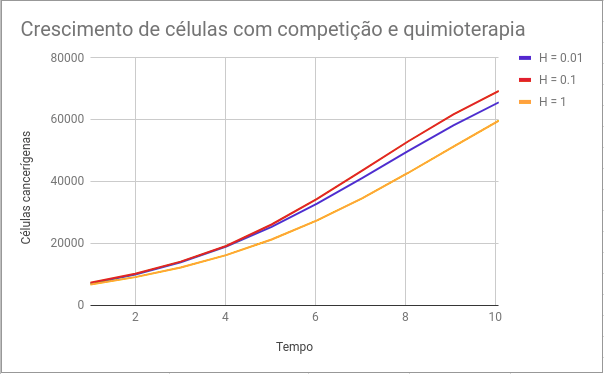
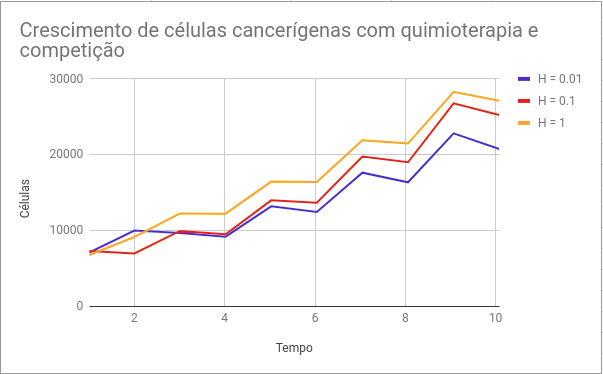
Concertado gráfico com quimioterapia e competição

diff --git a/Câncer/competitive_cancer.js b/Câncer/competitive_cancer.js
@@ -16,7 +16,7 @@
 	var r2 = 0.42;
 	var K1 = 5000;
 	var K2 = 50;
-	var h = 1;
+	var h = 0.1;
 	var prevY;
 	var negativeXIncrease = 0;
 	var negativeYIncrease = 0;
@@ -270,14 +270,14 @@
 		putText();
 		var increaseX = (h * competitiveGrowth(r1, x, y, K1, lambda1));
 		var increaseY = (h * competitiveGrowth(r2, y, x, K2, lambda2));
-		/*
+		
 		if (t > nDose * period) {
 			var normalKillCount = applyChemotherapy(normalAlpha, dose, true);
 			var cancerKillCount = applyChemotherapy(cancerAlpha, dose, false);
 			killCells(normalKillCount, true);
 			killCells(cancerKillCount, false);
 			nDose++;
-		}*/
+		}
 		if(increaseX < 0){
 			negativeXIncrease += increaseX;
 

diff --git a/Câncer/server.js b/Câncer/server.js
@@ -18,7 +18,7 @@ app.use(enableCors);
 
 app.post("/", (req, res) => {
 	//console.log(req.body);
-	fs.appendFileSync("chemo3.csv", json2csv({data: req.body, fields: fields, hasCSVColumnTitle: false}) + "\n");
+	fs.appendFileSync("chemo2.csv", json2csv({data: req.body, fields: fields, hasCSVColumnTitle: false}) + "\n");
 	res.status(200).send(true);
 });
 

diff --git a/Câncer/Paper/tumorgrowth.tex b/Câncer/Paper/tumorgrowth.tex
@@ -235,7 +235,7 @@ Crescimento de celulas cancerígenas sem competição e sem quimioterapia.
 
 \includegraphics{noChemoCompet}
 
-Testes adicionado quimioterapia e competição também foram realizados, trazendo resultados discrepantes na quantia de células em função do tempo. Os parâmetros utilizados foram os mesmos, diferindo apenas no \lambda1 = 0.003, \lambda2 = 0.00002, dose = 0.2 e período da dose = 2.
+Testes adicionado quimioterapia e competição também foram realizados, trazendo resultados discrepantes na quantia de células em função do tempo. Os parâmetros utilizados foram os mesmos, diferindo apenas no \lambda1 = 0.00003, \lambda2 = 0.0000002, dose = 0.2 e período da dose = 2.
 
 \includegraphics{chemoCompet}
 
